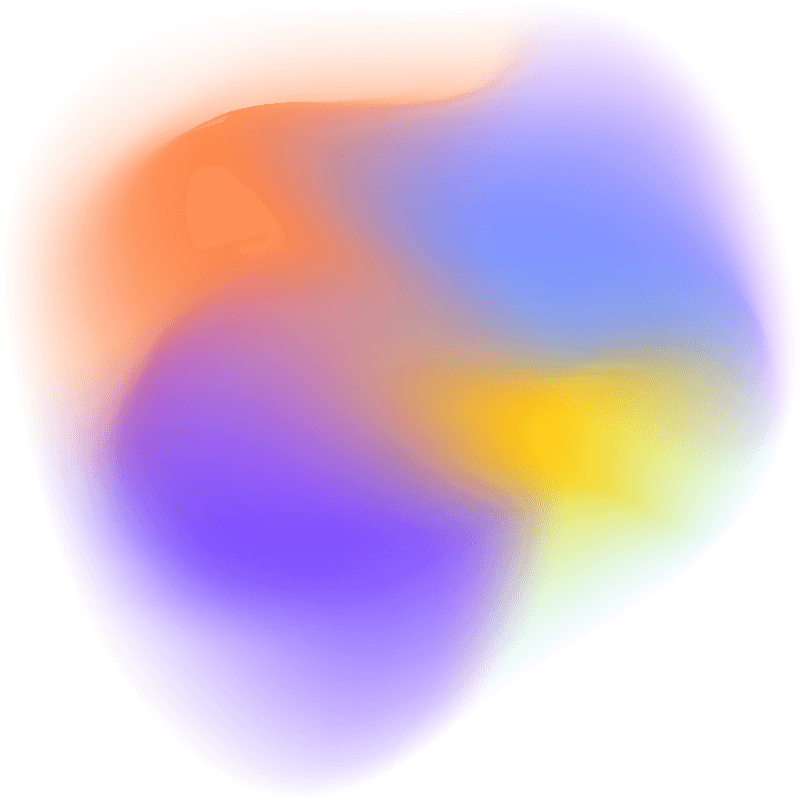
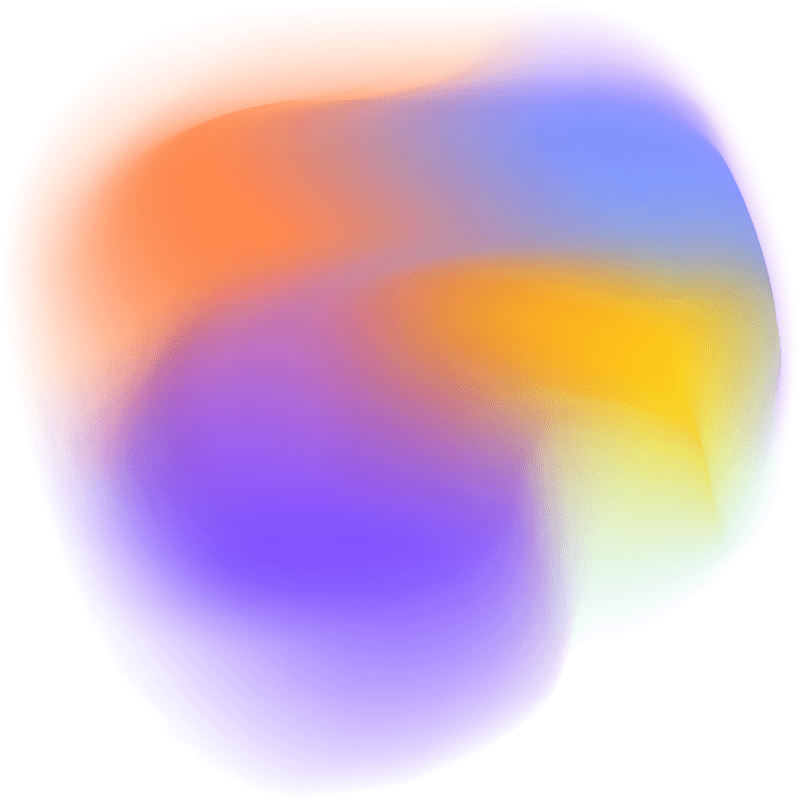
changed images, date, media queries

Changed region(s): [[0.1562, 0.0312, 1.0, 0.9688], [0.0938, 0.4062, 0.25, 0.625]]

diff --git a/_sass/main.scss b/_sass/main.scss
@@ -7,6 +7,7 @@
 // ? could I cancel hostgator just using jekyll and github pages or vercel?
 // TODO: make a separate branch for the auth0 stuff
 // TODO: 404 beautify
+// TODO: end of animation has double amount of time before it starts again
 
 @font-face {
   font-family: 'Inter';
@@ -120,6 +121,29 @@ ul {
   align-self: end;
 }
 
+.gradient-wrap {
+  position: absolute;
+  z-index: -1;
+  overflow: hidden;
+  display: flex;
+  width: 100vw;
+  max-width: 120rem;
+  margin: auto;
+  top: 0;
+  left: 0;
+  right: 0;
+  bottom: 0;
+  opacity: .4;
+  filter: blur(16px);
+  padding: 8vh 0 0 3rem;
+}
+
+.gradient-1, .gradient-2, .gradient-3 {
+  position: absolute;
+  height: 50rem;
+  width: 50rem;
+}
+
 /* TYPOGRAPHY */
 h1, h1 a {
   font-size: var(--font-size--xlarge);
@@ -158,7 +182,7 @@ footer * {
     opacity: 0;
   }
   to {
-    opacity: .75;
+    opacity: .7;
   }
 }
 
@@ -225,45 +249,22 @@ footer {
   animation-delay: 600ms;
 }
 
-.gradient-wrap {
-  position: absolute;
-  z-index: -1;
-  overflow: hidden;
-  display: flex;
-  width: 100vw;
-  max-width: 120rem;
-  margin: auto;
-  top: 0;
-  left: 0;
-  right: 0;
-  bottom: 0;
-  opacity: .4;
-  filter: blur(16px);
-  padding: 8vh 0 0 3rem;
-}
-
-.gradient-1, .gradient-2, .gradient-3 {
-  position: absolute;
-  height: 50rem;
-  width: 50rem;
-}
-
 .gradient-1 {
-  animation: spin-1 24s linear 200ms infinite, spinLoadIn 2s ease-out 0s 1;
+  animation: spin-1 20s linear 200ms infinite, spinLoadIn 2s ease-out 0s 1;
 }
 
 .gradient-2 {
-  animation: spin-2 24s linear 3s infinite backwards;
+  animation: spin-2 20s linear 3s infinite backwards;
 }
 
 .gradient-3 {
-  animation: spin-3 24s linear 6s infinite backwards;
+  animation: spin-3 20s linear 6s infinite backwards;
 }
   
 /* MEDIA QUERIES */
 @media (max-width: 56rem) {
   .grid {
-    grid-template-rows: 3fr auto auto auto 1fr;
+    grid-template-rows: 22rem auto auto auto auto;
   }
 
   .item-1 {
@@ -303,11 +304,5 @@ footer {
   .gradient-1, .gradient-2, .gradient-3 {
     height: 30rem;
     width: 30rem;
-  }
-}
-
-@media (max-width: 47rem) {
-  .gradient-wrap {
-    margin-top: -7rem;
   }
 }

diff --git a/index.md b/index.md
@@ -33,7 +33,7 @@ title: Matt Kubota
     </ul>
   </section>
   <footer class="item-5">
-    <p>Coded by hand with <a href="https://jekyllrb.com/">Jekyll</a> and typeset with <a href="https://rsms.me/inter/">Inter</a>. Last updated May 3, 2020.</p>
+    <p>Coded by hand with <a href="https://jekyllrb.com/">Jekyll</a> and typeset with <a href="https://rsms.me/inter/">Inter</a>. Last updated May 6, 2020.</p>
     <!-- {% for item in site.data.navigation %}
       <a href="{{ item.link }}" {% if page.url == item.link %}class="current"{% endif %}>
         {{ item.name }}
